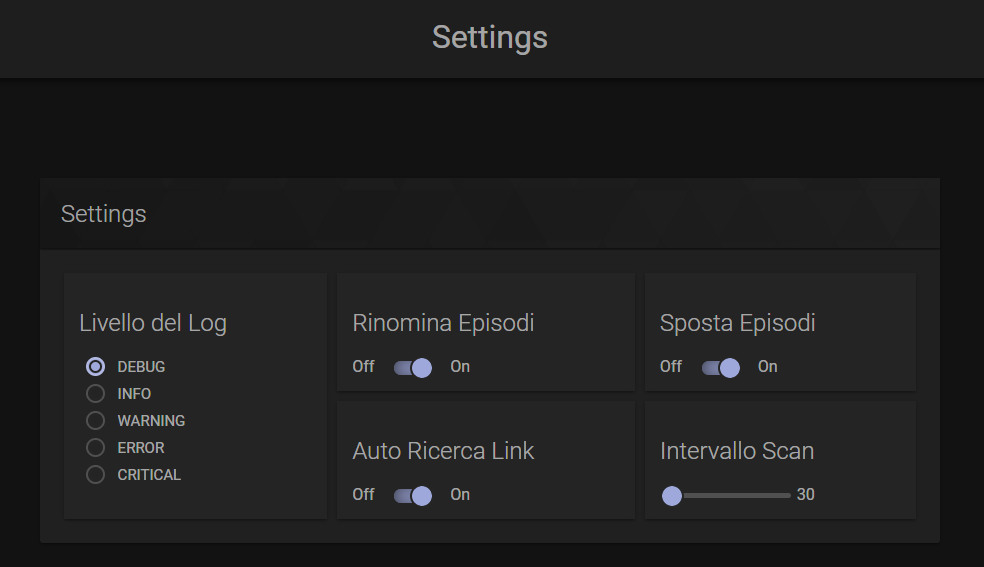
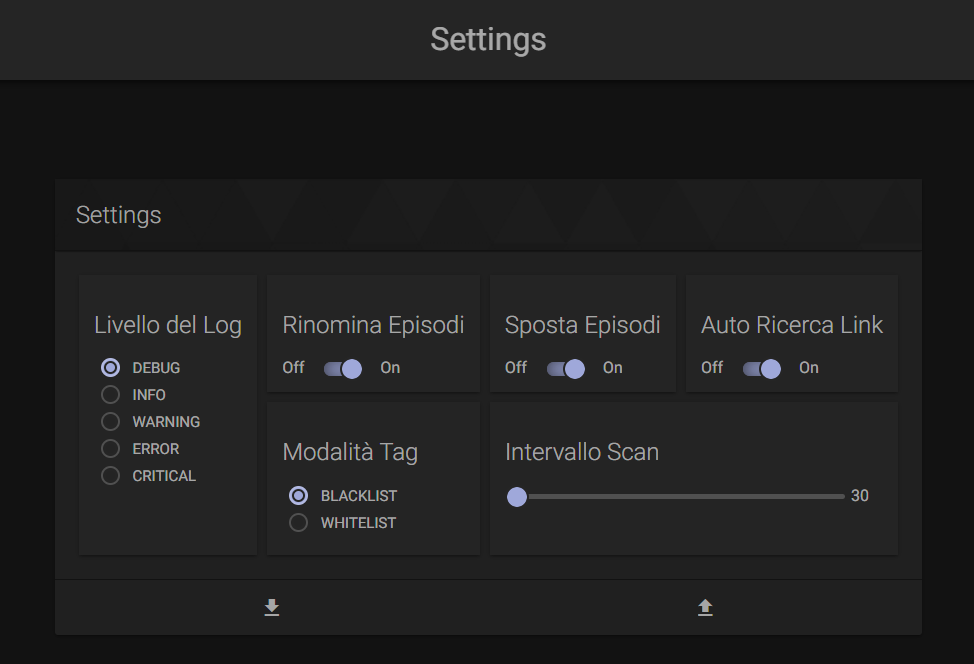
Aggiornamento Documentazione

diff --git a/README.md b/README.md
@@ -175,8 +175,10 @@ Parametro | Descrizione
 **Sposta Episodi** | Indica se gli episodi devono essere spostati nella cartella indicata da *Sonarr* oppure lasciarli nella cartella interna al container (`/downloads`).
 **Intervallo Scan** | Indica quanto tempo deve passare (in minuti) tra una ricerca degli episodi mancanti e un'altra, e in caso di risultati il download.
 **Auto Ricerca Link** | **!!!MODALITÀ SPERIMENTALE!!!** Ricerca automaticamente i link che non sono presenti nella tabella di conversione.
+Modalità Tag | Indica la modalità di gestione dei [tag](FAQ.md#come-si-usano-i-tag) associati agli anime su sonarr. Se è in moalità `BLACKLIST` le serie che hanno almeno un [tag](FAQ.md#come-si-usano-i-tag) attivo nella sezione **Tag Personalizzati** saranno escluse dalla ricerca; se è in modalità `WHITELIST` le serie che **NON** hanno almeno un [tag](FAQ.md#come-si-usano-i-tag) attivo nella sezione **Tag Personalizzati** saranno escluse. NOTA: Se è in modalità `WHITELIST` e non è stata aggiunto nessun [tag](FAQ.md#come-si-usano-i-tag) alla sezione **Tag Personalizzati** o nessuno è attivo allora **TUTTi** gli anime saranno esclusi.
 
 Le impostazioni si trovano in `http://localhost:5000/settings`
+
 
 ## Problemi
 In caso di problemi o errori controllare prima di tutto i log del Container, di solito lì è indicato il problema; altrimenti segnalarlo su GitHub in questo repository sotto la sezione _Issues_.

diff --git a/FAQ.md b/FAQ.md
@@ -16,6 +16,7 @@
 |[Cosa significa che la serie è stata scartata per mancanza di informazioni?](#cosa-significa-che-la-serie-è-stata-scartata-per-mancanza-di-informazioni)|
 |[La serie non compare nei log](#la-serie-non-compare-nei-log)|
 |[Come si usano le Connections?](#come-si-usano-le-connections)|
+|[Come si usano i Tag?](#come-si-usano-i-tag)|
 ---
 
 ## Dove posso reperire la chiave api di sonarr?
@@ -165,3 +166,11 @@ Le connection sono Shell Script scritti in Bash che vengono eseguiti quando deve
 Per utilizzarle è necessario prima scrive lo script in modo tale che possa ricevere un parametro ($1) che identifica il messaggio da inviare, poi salvare con estensione .sh e posizionarlo nella cartella /script/connections. Infine accedere alla pagina web, nella sezioni impostazioni, aggiungerlo e attivarlo.
 
 ![connection_howto](/documentation/images/connections_howto.gif)
+
+## Come si usano i Tag?
+
+![Tags](/documentation/images/tags.png)
+
+Per aggiungere un nuovo tag basta premere il pulsante `+` e aggiungere un nome di un tag **già presente** su Sonarr. \
+Per attivarne uno basta premere il pulsante in basso; se è visualizzato `ON` è attivo se invece è `OFF` è spento. \
+Se viene visualizzata la scritta `Invalido` significa che quel tag è stato rimosso da Sonarr e quindi non è più valido (non può essere attivato).
